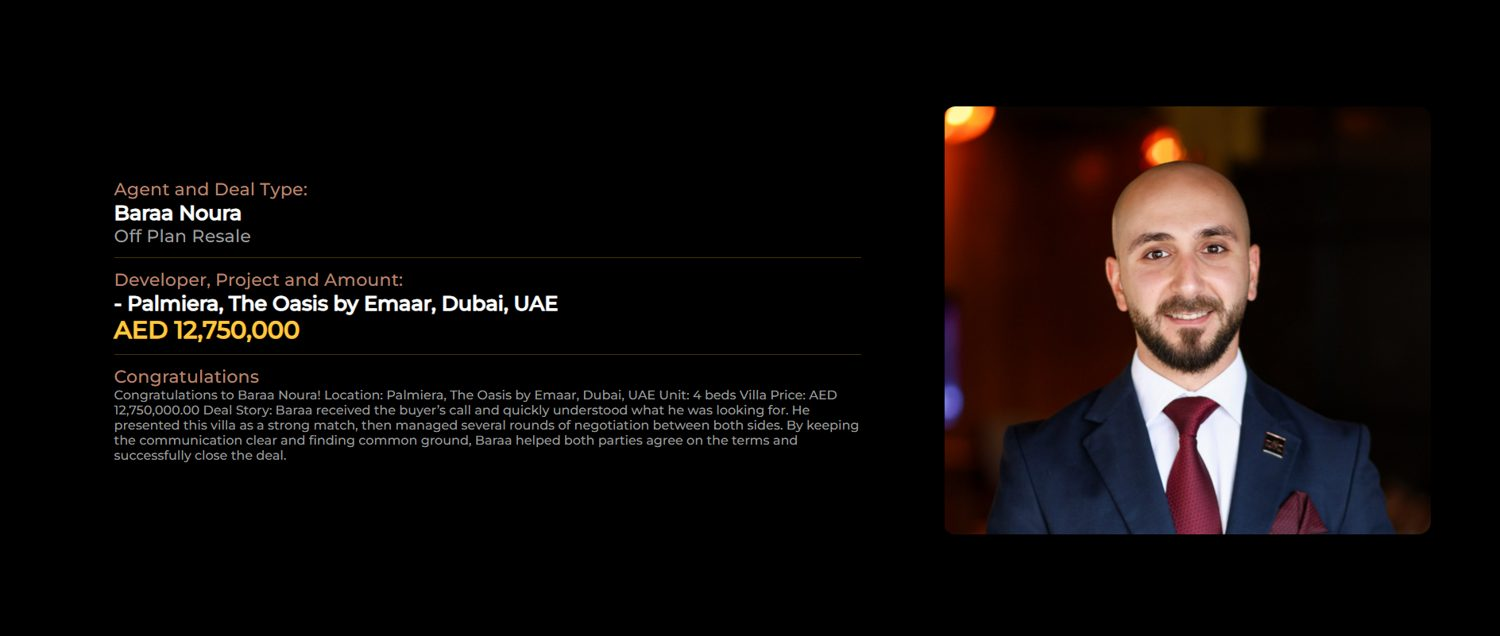
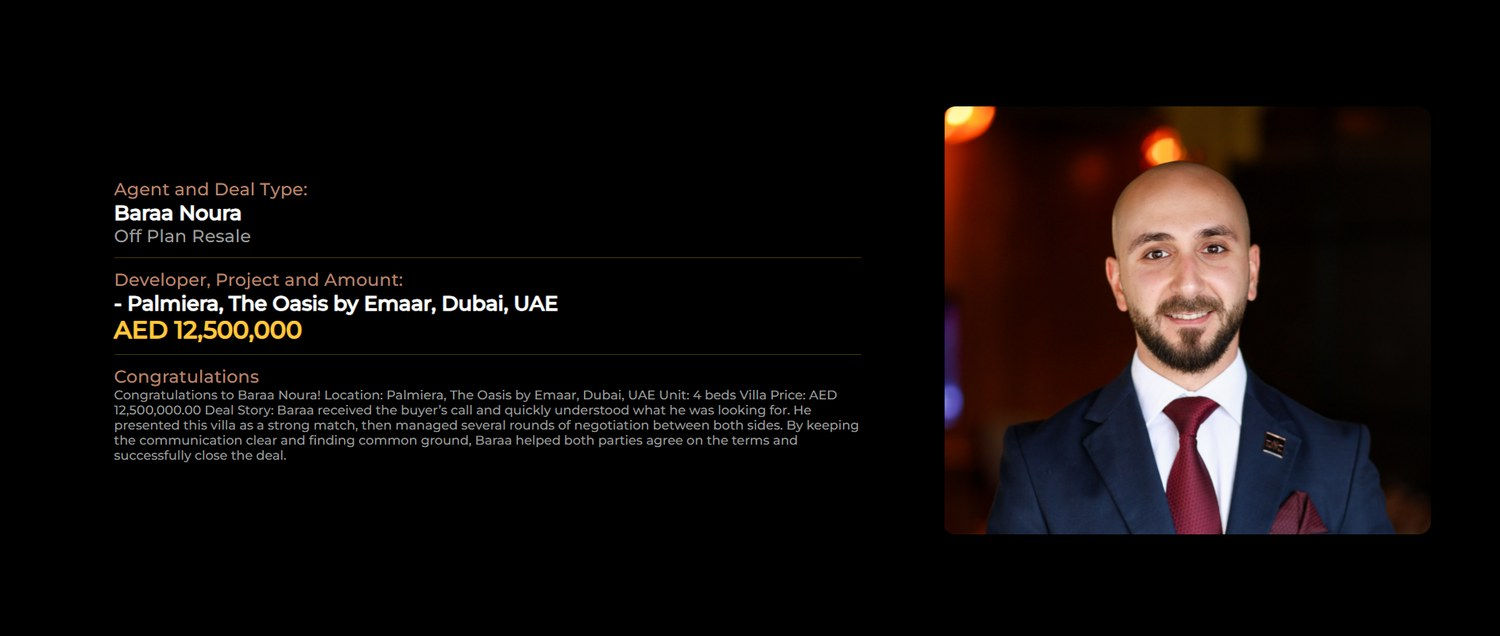
New deal image, testimonial order
Claude-Session: https://claude.ai/code/session_01NZWgyMctNajpkwUE9adJah

Changed region(s): [[0.092, 0.6274, 0.552, 0.6572], [0.1227, 0.5079, 0.2147, 0.5377]]

diff --git a/about/index.html b/about/index.html
@@ -188,7 +188,7 @@ if(n)gtag('event',n,{link_url:h.slice(0,150),page_path:location.pathname})}catch
       </div>
       <div class="tm">
         <h3 class="about-h">Testimonials</h3>
-        <div class="tm-track" id="tmTrack" tabindex="0" aria-roledescription="carousel" aria-label="Client reviews"><figure class="tm-s im" aria-roledescription="slide" aria-label="1 of 3"><img src="/images/review-neil.jpg" alt="Google review of Baraa Noura at AX CAPITAL Dubai, 5 stars, from Neil Gabriah: Excellent service provided by broker Baraa Noura. As a first time buyer, his support was invaluable." width="1200" height="620" loading="lazy" decoding="async"></figure><figure class="tm-s im" aria-roledescription="slide" aria-label="2 of 3"><img src="/images/review-david.jpg" alt="Google review of Baraa Noura at AX CAPITAL Dubai, 5 stars, from David Bryden: Baraa was fantastic to deal with, made the process so easy from start to finish, can't rate him high enough, outstanding service." width="1200" height="620" loading="lazy" decoding="async"></figure><figure class="tm-s im" aria-roledescription="slide" aria-label="3 of 3"><img src="/images/review-hussein.jpg" alt="Review from Hussein M. Dajani, 5 stars: I had an exceptional experience working with Baraa and AX CAPITAL Dubai. The process of renting out my villa was seamless and stress-free." width="1200" height="620" loading="lazy" decoding="async"></figure></div>
+        <div class="tm-track" id="tmTrack" tabindex="0" aria-roledescription="carousel" aria-label="Client reviews"><figure class="tm-s im" aria-roledescription="slide" aria-label="1 of 3"><img src="/images/review-hussein.jpg" alt="Review from Hussein M. Dajani, 5 stars: I had an exceptional experience working with Baraa and AX CAPITAL Dubai. The process of renting out my villa was seamless and stress-free." width="1200" height="620" loading="lazy" decoding="async"></figure><figure class="tm-s im" aria-roledescription="slide" aria-label="2 of 3"><img src="/images/review-neil.jpg" alt="Google review of Baraa Noura at AX CAPITAL Dubai, 5 stars, from Neil Gabriah: Excellent service provided by broker Baraa Noura. As a first time buyer, his support was invaluable." width="1200" height="620" loading="lazy" decoding="async"></figure><figure class="tm-s im" aria-roledescription="slide" aria-label="3 of 3"><img src="/images/review-david.jpg" alt="Google review of Baraa Noura at AX CAPITAL Dubai, 5 stars, from David Bryden: Baraa was fantastic to deal with, made the process so easy from start to finish, can't rate him high enough, outstanding service." width="1200" height="620" loading="lazy" decoding="async"></figure></div>
         <div class="tm-ctl"><button type="button" class="car-btn" id="tmPrev" aria-label="Previous review"><svg viewBox="0 0 24 24" aria-hidden="true"><path d="M15 5 L8 12 L15 19" fill="none" stroke="currentColor" stroke-width="1.3"/></svg></button><div class="tm-dots" id="tmDots"></div><button type="button" class="car-btn" id="tmNext" aria-label="Next review"><svg viewBox="0 0 24 24" aria-hidden="true"><path d="M9 5 L16 12 L9 19" fill="none" stroke="currentColor" stroke-width="1.3"/></svg></button></div>
       </div>
       <div class="tm dl">
